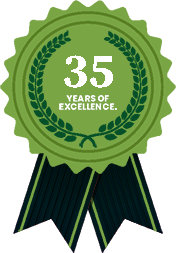
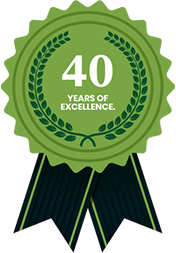
change on landing page

diff --git a/campaign2025/index.html b/campaign2025/index.html
@@ -49,7 +49,7 @@ height="0" width="0" style="display:none;visibility:hidden"></iframe></noscript>
                 <div class="col-lg-6">
                     <div class="banCon">
                         <h4>Lead the Change in Modern Healthcare</h4>
-                        <h1>Bachelor of<br> Science (B.Sc.)</h1>
+                        <h1>Bachelor of<br> Science (B.S<span>c</span>.)</h1>
                         <h5>Admissions Open 2025</h5>
                         <a href="#">Apply Now</a>
                     </div>
@@ -177,28 +177,28 @@ height="0" width="0" style="display:none;visibility:hidden"></iframe></noscript>
                     <figure><img src="assets/img/prog.jpg" class="img-fluid" alt="prog"></figure>
 
                 </div>
-                <figcaption>Baccalaureate in<br> Anaesthesia & Operation<br> Theatre Technology</figcaption>
+                <figcaption>B.Sc Operation Theatre &<br> Anaesthesia Technology</figcaption>
             </div>
             <div class="item">
                 <div class="proCon">
                     <figure><img src="assets/img/prog1.jpg" class="img-fluid" alt="prog"></figure>
 
                 </div>
-                <figcaption>Bachelor of<br> Dialysis Therapy<br> Technology</figcaption>
+                <figcaption>B.Sc Dialysis<br> Technology</figcaption>
             </div>
             <div class="item">
                 <div class="proCon">
                     <figure><img src="assets/img/prog2.jpg" class="img-fluid" alt="prog"></figure>
 
                 </div>
-                <figcaption>Bachelor of<br> Science in Respiratory<br> Technology</figcaption>
+                <figcaption>B.Sc Respiratory<br> Technology</figcaption>
             </div>
             <div class="item">
                 <div class="proCon">
                     <figure><img src="assets/img/prog3.jpg" class="img-fluid" alt="prog"></figure>
 
                 </div>
-                <figcaption>Bachelor of<br> Science in Medical Lab<br> Technology</figcaption>
+                <figcaption>B.Sc Medical Laboratory<br> Technology</figcaption>
             </div>
             <div class="item">
                 <div class="proCon">
@@ -212,28 +212,35 @@ height="0" width="0" style="display:none;visibility:hidden"></iframe></noscript>
                     <figure><img src="assets/img/prog5.jpg" class="img-fluid" alt="prog"></figure>
 
                 </div>
-                <figcaption>Bachelor of Physician<br> Associate Studies</figcaption>
+                <figcaption>B.Sc Physician<br> Assistant</figcaption>
             </div>
             <div class="item">
                 <div class="proCon">
                     <figure><img src="assets/img/prog6.jpg" class="img-fluid" alt="prog"></figure>
 
                 </div>
-                <figcaption>Bachelor of Science in<br> Critical Care Technology</figcaption>
+                <figcaption>B.Sc Critical Care<br> Technology</figcaption>
             </div>
             <div class="item">
                 <div class="proCon">
                     <figure><img src="assets/img/prog7.jpg" class="img-fluid" alt="prog"></figure>
 
                 </div>
-                <figcaption>Bachelor of Science in<br> Emergency Medical Technology</figcaption>
+                <figcaption>B.Sc Emergency Medical<br> Technology</figcaption>
             </div>
-            <div class="item">
+            <!-- <div class="item">
                 <div class="proCon">
                     <figure><img src="assets/img/prog8.jpg" class="img-fluid" alt="prog"></figure>
 
                 </div>
                 <figcaption>Critical Care<br> Technology</figcaption>
+            </div> -->
+            <div class="item">
+                <div class="proCon">
+                    <figure><img src="assets/img/prog8.jpg" class="img-fluid" alt="prog"></figure>
+
+                </div>
+                <figcaption>B.S<span>c</span> Cardiovascular <br> technology</figcaption>
             </div>
         </div>
         <div class="progArrow">
@@ -249,14 +256,14 @@ height="0" width="0" style="display:none;visibility:hidden"></iframe></noscript>
         <div class="container">
             <div class="heading">
                 <figure><img src="assets/img/line.png" class="img-fluid" alt=""></figure>
-                <h2>Why Sets Apollo Allied Health<br> Academy Apart</h2>
+                <h2>What Sets Apollo Allied Health<br> Academy Apart</h2>
             </div>
             <div class="row">
                 <div class="col-lg-6">
                     <div class="setCon">
                         <div class="seLeft">
                             <h4>Apollo Group<br> Legacy</h4>
-                            <p>Backed by Asia's largest integrated healthcare group with over 35 years of excellence.</p>
+                            <p>Backed by Asia's largest integrated healthcare group with over 40 years of excellence.</p>
                         </div>
                         <figure><img src="assets/img/apG.png" class="img-fluid" alt="apG"></figure>
                     </div>
@@ -297,7 +304,7 @@ height="0" width="0" style="display:none;visibility:hidden"></iframe></noscript>
                             <div class="col-lg-6 col-md-6">
                                 <div class="handOn">
                                     <h4>Hand-on<br> Training</h4>
-                                    <p>Clinical rotations and internships at Apollo<br> Hospitals and partner institutions.</p>
+                                    <p>Clinical rotations and paid internships in<br> the final year at partner hospitals</p>
                                 </div>
                             </div>
                             <div class="col-lg-6 col-md-6">

diff --git a/campaign2025/assets/css/style.css b/campaign2025/assets/css/style.css
@@ -114,10 +114,6 @@ body {
     padding: 20px 0px 15px;
 }
 
-.banCon h1 span {
-    color: var(--yellow);
-}
-
 .banCon h4 {
     font-size: 28px;
     color: #fff;
@@ -137,11 +133,7 @@ body {
 }
 
 .banCon h1 span:last-child {
-    border-top: 2px solid white;
-    display: block;
-    width: fit-content;
-    padding-top: 20px;
-    margin-top: 20px;
+    text-transform: lowercase;
 }
 
 .formSec .row .col-lg-2 {
@@ -269,6 +261,10 @@ body {
     transform: translate(-50%, 0);
     width: 80%;
     line-height: 1.2;
+}
+
+.proSlider figcaption span {
+    text-transform: lowercase;
 }
 
 .proCon::after {
